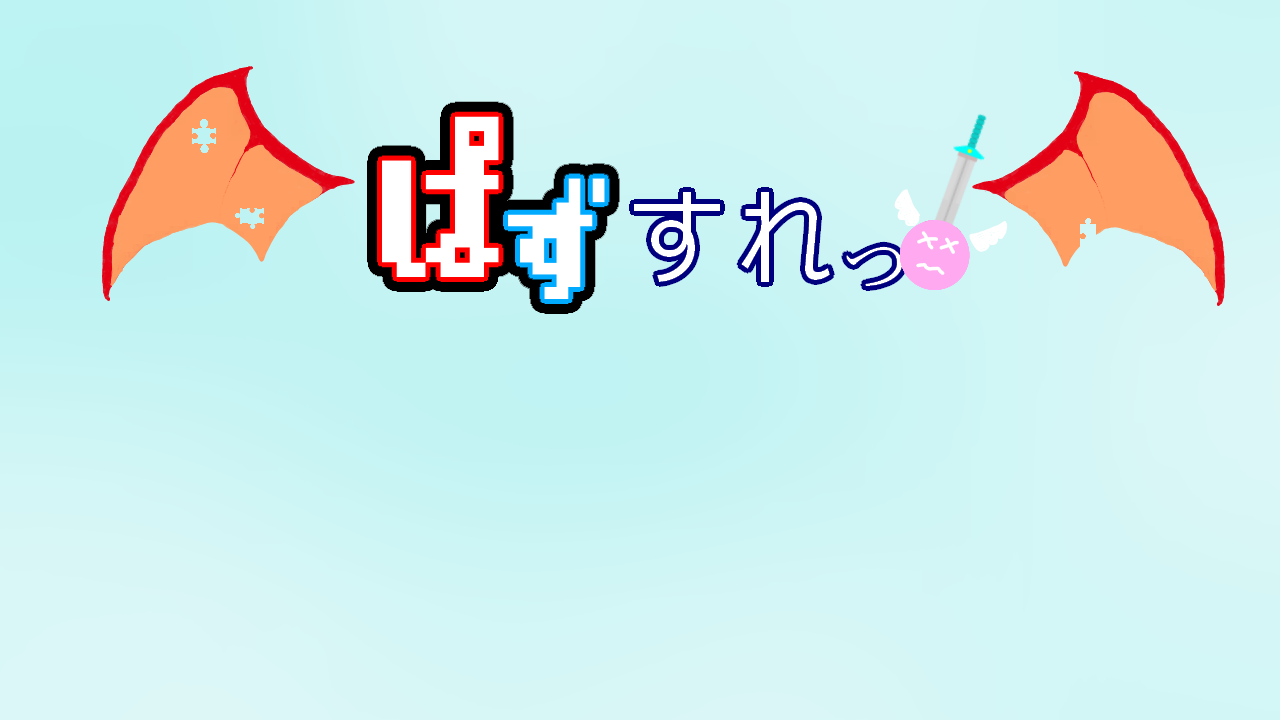
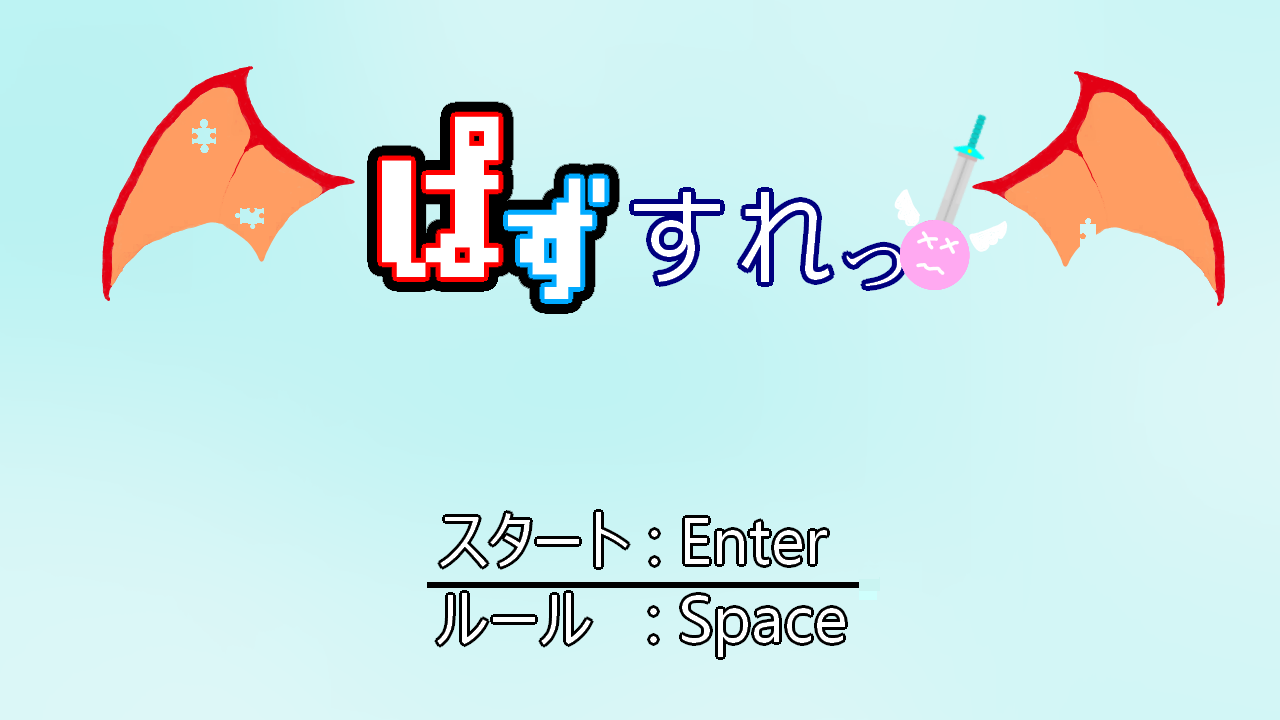
ruleScene完成

Changed region(s): [[0.3438, 0.7028, 0.6875, 0.9167]]

diff --git a/DirectXGame/Scene/RuleScene.cpp b/DirectXGame/Scene/RuleScene.cpp
@@ -4,6 +4,9 @@ void RuleScene::Initialize() {
 	dxCommon_ = DirectXCommon::GetInstance();
 	input_ = Input::GetInstance();
 	audio_ = Audio::GetInstance();
+
+	ruleTexture_ = TextureManager::Load("Scene/rule.png");
+	ruleSprite_ = Sprite::Create(ruleTexture_, {0, 0});
 }
 
 void RuleScene::Update() {
@@ -13,5 +16,47 @@ void RuleScene::Update() {
 }
 
 void RuleScene::Draw() {
+	// コマンドリストの取得
+	ID3D12GraphicsCommandList* commandList = dxCommon_->GetCommandList();
 
+#pragma region 背景スプライト描画
+	// 背景スプライト描画前処理
+	Sprite::PreDraw(commandList);
+
+	/// <summary>
+	/// ここに背景スプライトの描画処理を追加できる
+	/// </summary>
+
+	// スプライト描画後処理
+	Sprite::PostDraw();
+	// 深度バッファクリア
+	dxCommon_->ClearDepthBuffer();
+#pragma endregion
+
+#pragma region 3Dオブジェクト描画
+	// 3Dオブジェクト描画前処理
+	Model::PreDraw(commandList);
+
+	/// <summary>
+	/// ここに3Dオブジェクトの描画処理を追加できる
+	/// </summary>
+
+	// 3Dオブジェクト描画後処理
+	Model::PostDraw();
+#pragma endregion
+
+#pragma region 前景スプライト描画
+	// 前景スプライト描画前処理
+	Sprite::PreDraw(commandList);
+
+	/// <summary>
+	/// ここに前景スプライトの描画処理を追加できる
+	/// </summary>
+
+	ruleSprite_->Draw();
+
+	// スプライト描画後処理
+	Sprite::PostDraw();
+
+#pragma endregion
 }

diff --git a/DirectXGame/Scene/TitleScene.cpp b/DirectXGame/Scene/TitleScene.cpp
@@ -7,8 +7,7 @@ void TitleScene::Initialize() {
 
 	titleTexture_ = TextureManager::Load("Scene/title.png");
 	titleSprite_ = Sprite::Create(titleTexture_, {0, 0});
-	pushTexture_ = TextureManager::Load("PushReturn.png");
-	pushSprite_ = Sprite::Create(pushTexture_, { 320, 600 });
+
 }
 
 void TitleScene::Update() {
@@ -63,7 +62,6 @@ void TitleScene::Draw() {
 	/// </summary>
 
 	titleSprite_->Draw();
-	pushSprite_->Draw();
 
 	// スプライト描画後処理
 	Sprite::PostDraw();

diff --git a/DirectXGame/Scene/TitleScene.h b/DirectXGame/Scene/TitleScene.h
@@ -26,6 +26,5 @@ private:
 
 	uint32_t titleTexture_ = 0;
 	Sprite* titleSprite_ = nullptr;
-	uint32_t pushTexture_ = 0;
-	Sprite* pushSprite_ = nullptr;
+
 };

diff --git a/DirectXGame/Scene/RuleScene.h b/DirectXGame/Scene/RuleScene.h
@@ -20,4 +20,7 @@ private:
 	Input* input_ = nullptr;
 	Audio* audio_ = nullptr;
 
+	uint32_t ruleTexture_ = 0;
+	Sprite* ruleSprite_ = nullptr;
+
 };
